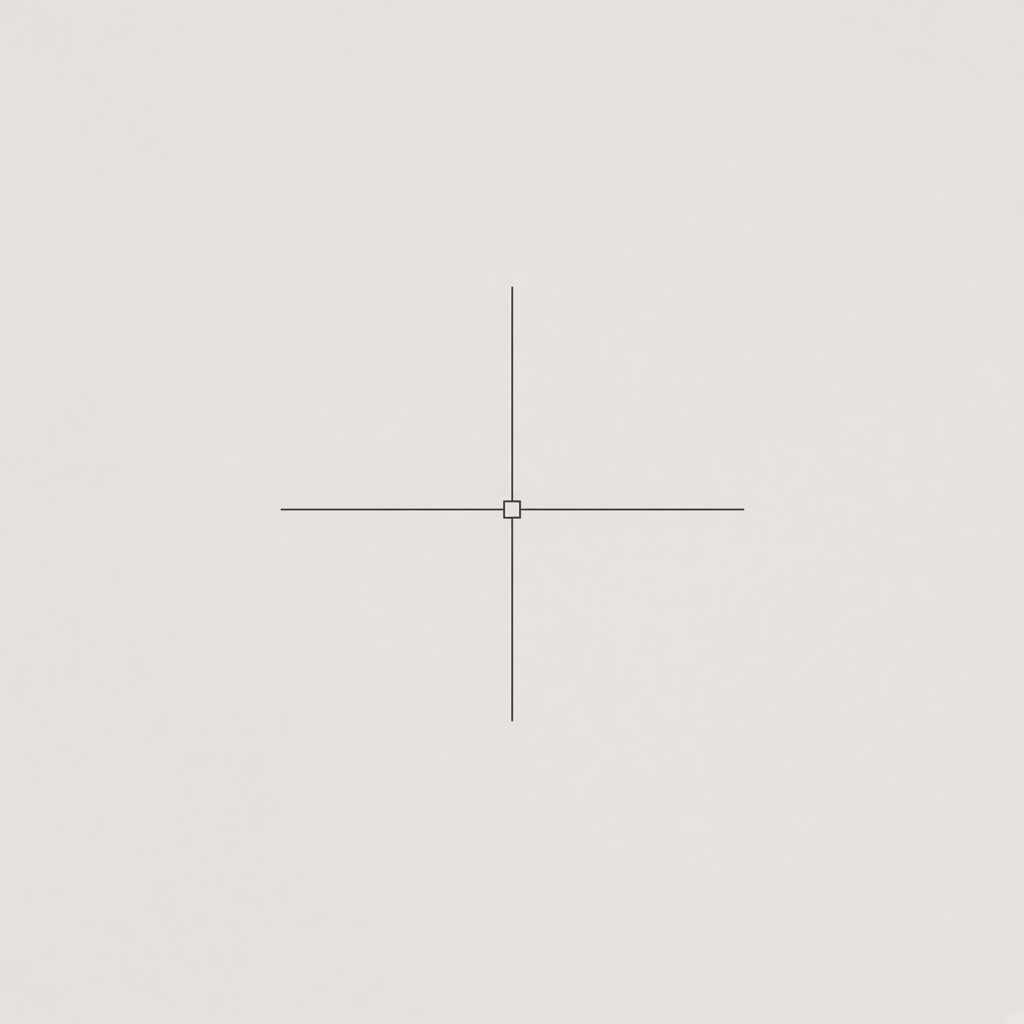
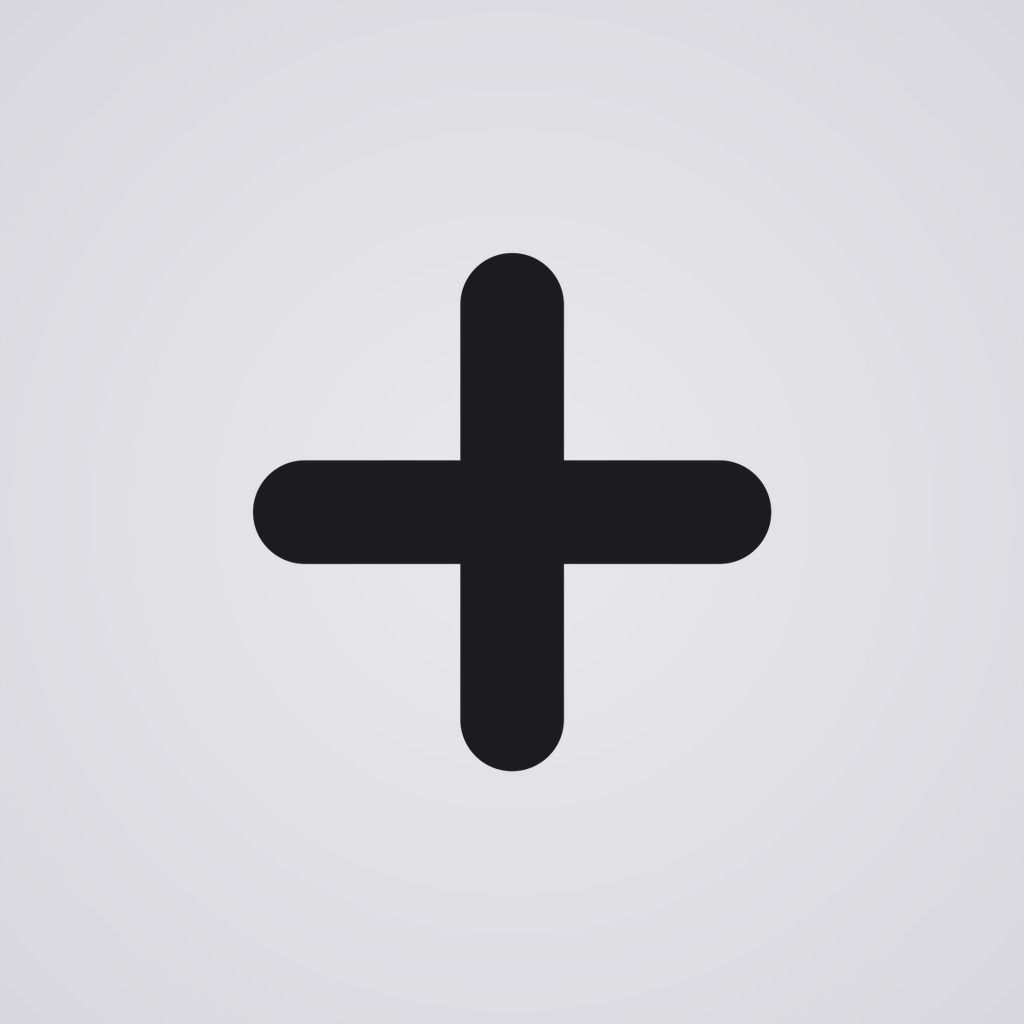
Use standard macOS crosshair for Dock mark and capture cursor.
Render AppIcon/menu-bar template from system HIServices crosshair
artwork on a light neutral ground, switch the capture overlay to
NSCursor.crosshair (no hidden pointer / custom mint reticle), and
align onboarding mark + docs.

Changed region(s): [[0.25, 0.25, 0.75, 0.75]]

diff --git a/Blink/Capture/CaptureOverlayController.swift b/Blink/Capture/CaptureOverlayController.swift
@@ -1,14 +1,14 @@
 import AppKit
 import SwiftUI
 
-/// Full-screen dim + mint crosshairs + drag-select overlay across all displays.
+/// Full-screen dim + system crosshair cursor + drag-select overlay across all displays.
 @MainActor
 final class CaptureOverlayController: NSObject {
     private var windows: [CaptureOverlayWindow] = []
     private var startPoint: CGPoint?
     private var currentRect: CGRect?
     private var escapeMonitor: Any?
-    private var didHideCursor = false
+    private var didPushCrosshair = false
     private var isPresented = false
     var onComplete: ((CGRect?) -> Void)?
 
@@ -21,7 +21,7 @@ final class CaptureOverlayController: NSObject {
             windows.append(window)
         }
         isPresented = true
-        hideSystemCursor()
+        pushSystemCrosshair()
         installEscapeMonitor()
         NSApp.activate(ignoringOtherApps: true)
         windows.first?.makeKeyAndOrderFront(nil)
@@ -29,7 +29,7 @@ final class CaptureOverlayController: NSObject {
 
     /// Tear down UI without invoking `onComplete` (used when re-presenting).
     func dismissOverlay() {
-        guard isPresented || !windows.isEmpty || didHideCursor || escapeMonitor != nil else { return }
+        guard isPresented || !windows.isEmpty || didPushCrosshair || escapeMonitor != nil else { return }
         teardownUI()
         startPoint = nil
         currentRect = nil
@@ -74,21 +74,22 @@ final class CaptureOverlayController: NSObject {
     private func teardownUI() {
         isPresented = false
         removeEscapeMonitor()
-        restoreSystemCursor()
+        popSystemCrosshair()
         windows.forEach { $0.orderOut(nil) }
         windows.removeAll()
     }
 
-    private func hideSystemCursor() {
-        guard !didHideCursor else { return }
-        NSCursor.hide()
-        didHideCursor = true
+    private func pushSystemCrosshair() {
+        guard !didPushCrosshair else { return }
+        NSCursor.crosshair.push()
+        didPushCrosshair = true
+        windows.forEach { $0.invalidateCursorRects(for: $0.contentView ?? NSView()) }
     }
 
-    private func restoreSystemCursor() {
-        guard didHideCursor else { return }
-        NSCursor.unhide()
-        didHideCursor = false
+    private func popSystemCrosshair() {
+        guard didPushCrosshair else { return }
+        NSCursor.pop()
+        didPushCrosshair = false
     }
 
     private func installEscapeMonitor() {
@@ -155,6 +156,15 @@ private final class CaptureOverlayView: NSView {
     override func viewDidMoveToWindow() {
         window?.makeKey()
         window?.makeFirstResponder(self)
+        NSCursor.crosshair.set()
+    }
+
+    override func resetCursorRects() {
+        addCursorRect(bounds, cursor: .crosshair)
+    }
+
+    override func cursorUpdate(with event: NSEvent) {
+        NSCursor.crosshair.set()
     }
 
     override func draw(_ dirtyRect: NSRect) {
@@ -176,49 +186,30 @@ private final class CaptureOverlayView: NSView {
             selection.fill()
             NSGraphicsContext.current?.compositingOperation = .sourceOver
 
+            // Quiet selection stroke — mint only as a light accent, not a custom pointer.
             Brand.mintNS.withAlphaComponent(0.95).setStroke()
             let path = NSBezierPath(rect: selection.insetBy(dx: 0.5, dy: 0.5))
             path.lineWidth = 1.5
             path.stroke()
         }
-
-        drawCrosshairs()
     }
 
-    private func drawCrosshairs() {
-        let mouse = window?.mouseLocationOutsideOfEventStream ?? .zero
-        Brand.mintNS.withAlphaComponent(0.85).setStroke()
-        let path = NSBezierPath()
-        path.lineWidth = 1
-        let arm: CGFloat = 18
-        let gap: CGFloat = 6
-        path.move(to: CGPoint(x: mouse.x - arm, y: mouse.y))
-        path.line(to: CGPoint(x: mouse.x - gap, y: mouse.y))
-        path.move(to: CGPoint(x: mouse.x + gap, y: mouse.y))
-        path.line(to: CGPoint(x: mouse.x + arm, y: mouse.y))
-        path.move(to: CGPoint(x: mouse.x, y: mouse.y - arm))
-        path.line(to: CGPoint(x: mouse.x, y: mouse.y - gap))
-        path.move(to: CGPoint(x: mouse.x, y: mouse.y + gap))
-        path.line(to: CGPoint(x: mouse.x, y: mouse.y + arm))
-        path.stroke()
-
-        let box: CGFloat = 8
-        let square = NSRect(x: mouse.x - box / 2, y: mouse.y - box / 2, width: box, height: box)
-        let squarePath = NSBezierPath(rect: square)
-        squarePath.lineWidth = 1.25
-        squarePath.stroke()
+    override func mouseEntered(with event: NSEvent) {
+        NSCursor.crosshair.set()
     }
 
     override func mouseMoved(with event: NSEvent) {
-        needsDisplay = true
+        NSCursor.crosshair.set()
     }
 
     override func mouseDown(with event: NSEvent) {
+        NSCursor.crosshair.set()
         owner?.overlayDelegate?.beginDrag(at: NSEvent.mouseLocation)
         needsDisplay = true
     }
 
     override func mouseDragged(with event: NSEvent) {
+        NSCursor.crosshair.set()
         owner?.overlayDelegate?.updateDrag(to: NSEvent.mouseLocation)
         needsDisplay = true
     }

diff --git a/Blink/Onboarding/OnboardingView.swift b/Blink/Onboarding/OnboardingView.swift
@@ -143,28 +143,18 @@ struct PermissionsFollowUpView: View {
     }
 }
 
-/// Mint crosshair mark matching the product icon.
+/// System-style crosshair mark matching `NSCursor.crosshair` / the Dock icon.
 struct CrosshairMark: View {
     var body: some View {
         Canvas { context, size in
             let cx = size.width / 2
             let cy = size.height / 2
-            let arm = size.width * 0.38
-            let gap = size.width * 0.12
-            let box = size.width * 0.18
-            var path = Path()
-            path.move(to: CGPoint(x: cx, y: cy - arm))
-            path.addLine(to: CGPoint(x: cx, y: cy - gap))
-            path.move(to: CGPoint(x: cx, y: cy + gap))
-            path.addLine(to: CGPoint(x: cx, y: cy + arm))
-            path.move(to: CGPoint(x: cx - arm, y: cy))
-            path.addLine(to: CGPoint(x: cx - gap, y: cy))
-            path.move(to: CGPoint(x: cx + gap, y: cy))
-            path.addLine(to: CGPoint(x: cx + arm, y: cy))
-            context.stroke(path, with: .color(Brand.mint), lineWidth: 3)
-
-            let square = Path(roundedRect: CGRect(x: cx - box / 2, y: cy - box / 2, width: box, height: box), cornerRadius: 0)
-            context.stroke(square, with: .color(Brand.mint), lineWidth: 3)
+            let arm = size.width * 0.34
+            let thickness = max(3, size.width * 0.14)
+            let vertical = CGRect(x: cx - thickness / 2, y: cy - arm, width: thickness, height: arm * 2)
+            let horizontal = CGRect(x: cx - arm, y: cy - thickness / 2, width: arm * 2, height: thickness)
+            context.fill(Path(roundedRect: vertical, cornerRadius: thickness / 2), with: .color(Brand.ink))
+            context.fill(Path(roundedRect: horizontal, cornerRadius: thickness / 2), with: .color(Brand.ink))
         }
     }
 }

diff --git a/Blink/Brand/BrandColors.swift b/Blink/Brand/BrandColors.swift
@@ -2,14 +2,14 @@ import SwiftUI
 
 /// Blink brand tokens — keep in sync with docs/brand-identity.md
 enum Brand {
-    static let ink = Color(hex: 0x1A1D21)
+    static let ink = Color(hex: 0x1C1C20)
     static let paper = Color(hex: 0xF3F5F4)
     static let mint = Color(hex: 0x3DFFB5)
     static let mintDim = Color(hex: 0x1F8F6A)
     static let fog = Color(hex: 0x8B9398)
     static let alert = Color(hex: 0xFF5C5C)
 
-    static let inkNS = NSColor(srgbRed: 0x1A / 255, green: 0x1D / 255, blue: 0x21 / 255, alpha: 1)
+    static let inkNS = NSColor(srgbRed: 0x1C / 255, green: 0x1C / 255, blue: 0x20 / 255, alpha: 1)
     static let mintNS = NSColor(srgbRed: 0x3D / 255, green: 0xFF / 255, blue: 0xB5 / 255, alpha: 1)
     static let paperNS = NSColor(srgbRed: 0xF3 / 255, green: 0xF5 / 255, blue: 0xF4 / 255, alpha: 1)
     static let fogNS = NSColor(srgbRed: 0x8B / 255, green: 0x93 / 255, blue: 0x98 / 255, alpha: 1)

diff --git a/README.md b/README.md
@@ -1,7 +1,7 @@
 # Blink
 
 <p align="center">
-  <img src="docs/blink-mark.jpg" alt="Blink mark — charcoal crosshair on soft warm gray" width="128" height="128" />
+  <img src="docs/blink-mark.jpg" alt="Blink mark — standard macOS crosshair on light neutral ground" width="128" height="128" />
 </p>
 
 **Select any part of your screen. Get the text.**
@@ -31,7 +31,7 @@ Blink is a macOS menu-bar OCR tool. Press **⌘⇧2** (configurable), drag a reg
 
 Menu → **Capture** shows the current chord. If registration fails (conflict), Blink stays quiet and Settings shows a short hint.
 
-While the overlay is up, the system pointer is hidden; mint crosshairs track the mouse 1:1 until you release a selection, press Esc, or the session ends. After a successful copy, a brief bottom-of-screen toast confirms (toggle in Settings).
+While the overlay is up, the pointer switches to the standard macOS crosshair (`NSCursor.crosshair`) until you release a selection, press Esc, or the session ends. After a successful copy, a brief bottom-of-screen toast confirms (toggle in Settings).
 
 ## Build & run
 

diff --git a/MANUAL_SMOKE.md b/MANUAL_SMOKE.md
@@ -13,8 +13,8 @@ CI builds the app and runs unit tests. Global hotkeys, overlays, Screen Recordin
 ## Capture → OCR → clipboard
 
 1. Press **⌘⇧2** (or menu → **Capture** — title shows the current shortcut).
-2. Confirm mint crosshairs + dim overlay on the active display(s); system pointer is hidden.
-3. Drag a rectangle over visible text (e.g. this markdown heading). Crosshairs track the mouse 1:1.
+2. Confirm dim overlay + the standard macOS crosshair cursor on the active display(s); the system pointer is not hidden for a custom reticle.
+3. Drag a rectangle over visible text (e.g. this markdown heading). The system crosshair tracks normally.
 4. Release. Confirm:
    - Overlay dismisses (~120–180ms feel); system pointer restored.
    - Menu bar glyph briefly flashes success.
